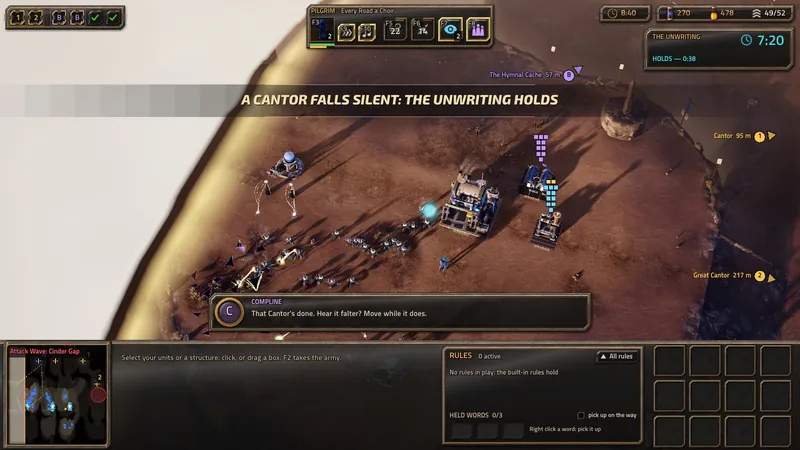
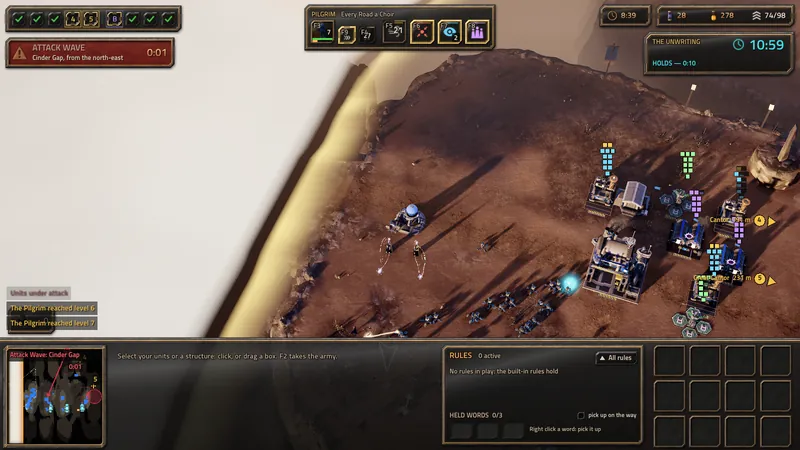
Site: the duel and Unwriting pictures taken again from the game as it now is: Sunspire Basin's Altar wholly on its dais (it stood half under the dais's cliff, its PLAYER tile in the rock), and the minimap's Unwriting a white page (a grey see-through sheet read as a piece of the minimap missing); the

diff --git a/index.html b/index.html
@@ -407,7 +407,7 @@
         <li><a href="img/magister-1600.webp" data-lightbox data-caption="Magister&#x27;s own interface. On the ground, three words make a rule around them: BOSS IS SLEEP."><img src="img/magister-800.webp" width="800" height="450" loading="lazy" alt="Magister&#x27;s interface over a massed army on The Megalith: economy bars top left, the map window top right, three word tiles reading BOSS IS SLEEP."><span>Magister</span></a></li>
         <li><a href="img/magister-zoom-1600.webp" data-lightbox data-caption="Magister can zoom out until the whole map is one picture."><img src="img/magister-zoom-800.webp" width="800" height="450" loading="lazy" alt="The strategic zoom: the whole map of The Megalith at once, the army shown as blue markers on dark ground."><span>Strategic zoom</span></a></li>
         <li><a href="img/altar-1600.webp" data-lightbox data-caption="BOSS IS NOT HOT: the Ember Altar takes the Leviathan&#x27;s heat away."><img src="img/altar-800.webp" width="800" height="450" loading="lazy" alt="The Ember Altar: a grid of stone word tiles where BOSS IS NOT HOT is lit up, with the word SAFE beside it."><span>The Ember Altar</span></a></li>
-        <li><a href="img/duel-1600.webp" data-lightbox data-caption="A duel against an AI Chimera on Sunspire Basin. The word ENEMY is one push away from the Altar&#x27;s sentence."><img src="img/duel-800.webp" width="800" height="450" loading="lazy" alt="A duel on Sunspire Basin: an Altar reading PLAYER IS FAST, the word ENEMY one tile away, a lone unit beside it."><span>A duel</span></a></li>
+        <li><a href="img/duel-1600.webp" data-lightbox data-caption="A duel against an AI Chimera on Sunspire Basin. The enemy holds the Altar, so ENEMY IS FAST until someone takes it back."><img src="img/duel-800.webp" width="800" height="450" loading="lazy" alt="A duel on Sunspire Basin: the AI Chimera holds the Altar north of the spire, its tiles reading ENEMY IS FAST, the word PLAYER pushed up a row."><span>A duel</span></a></li>
         <li><a href="img/chart-room-1600.webp" data-lightbox data-caption="The Chart Room in Act IV: the world map, and Compline&#x27;s briefing for Cathedral."><img src="img/chart-room-800.webp" width="800" height="450" loading="lazy" alt="The Chart Room: a painted world map with the campaign&#x27;s missions joined by routes, the acts marked in colour, and the briefing for Cathedral on the right."><span>Chart Room</span></a></li>
         <li><a href="img/carillon-1600.webp" data-lightbox data-caption="The Commons: the crew, the news from the road, and Mercenaries for hire."><img src="img/carillon-800.webp" width="800" height="450" loading="lazy" alt="The Commons aboard the Carillon: the Abbess of the Saltmarsh and the Gunwarden stand in the camp, with the news and Mercenaries for hire on the right."><span>The Carillon</span></a></li>
         <li><a href="img/chimera-screen-1600.webp" data-lightbox data-caption="Before a mission: a Commander, a kind of Chimera and three production lines."><img src="img/chimera-screen-800.webp" width="800" height="450" loading="lazy" alt="The Commander and Chimera screen: three Commanders on the left, three kinds of Chimera and eight production lines on the right."><span>Commander and Chimera</span></a></li>
